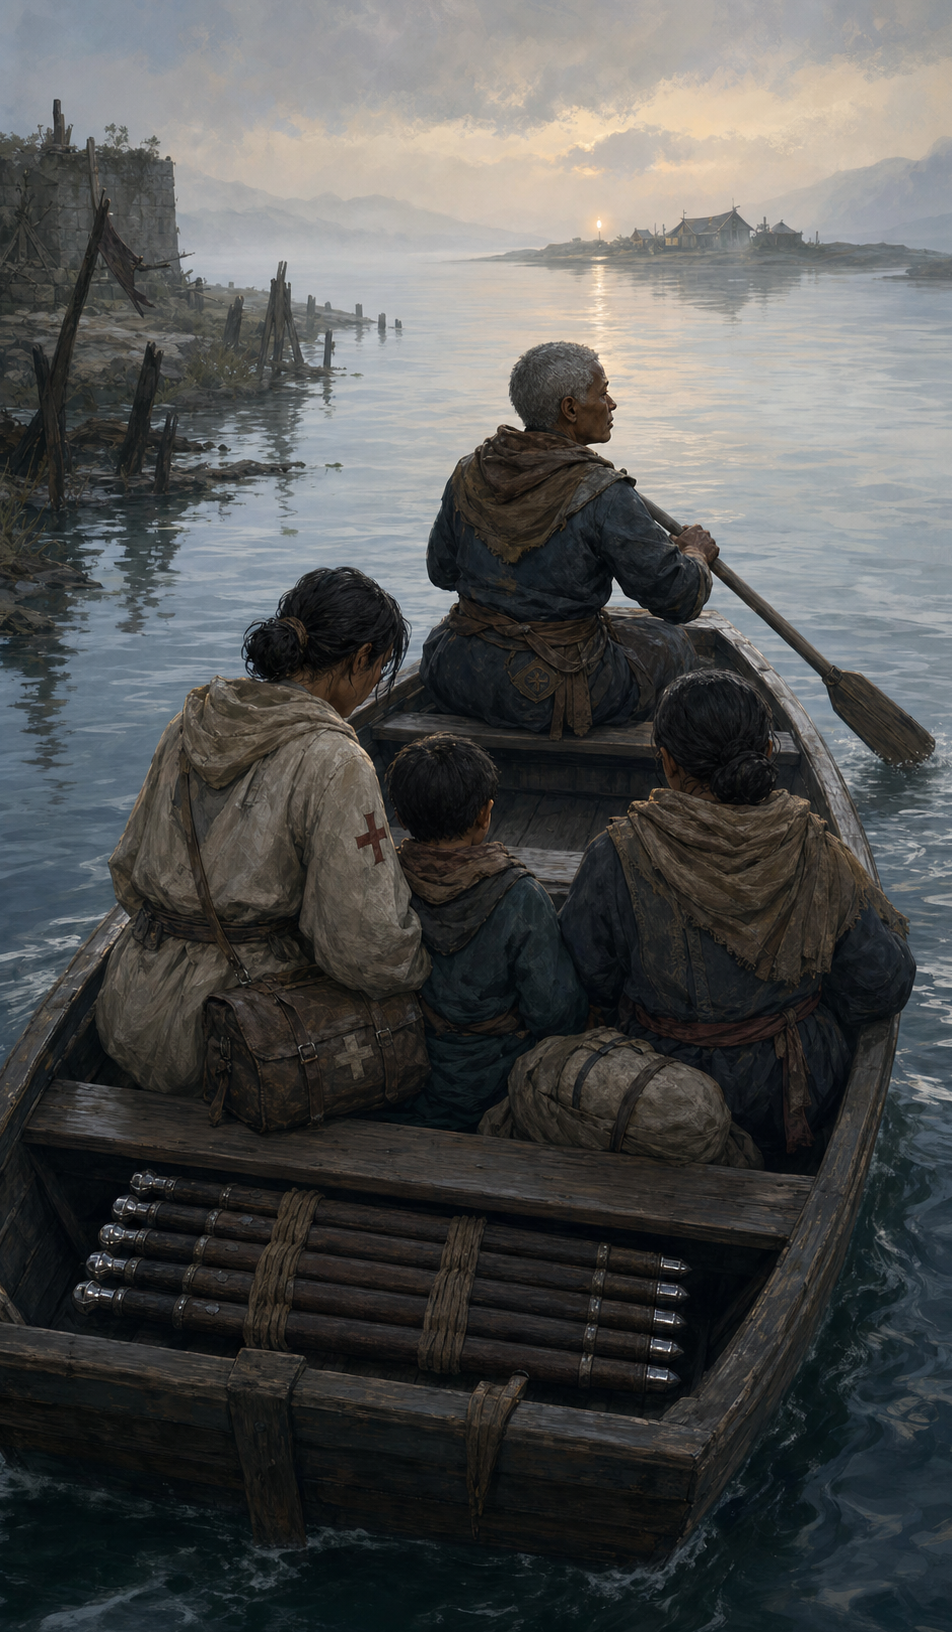
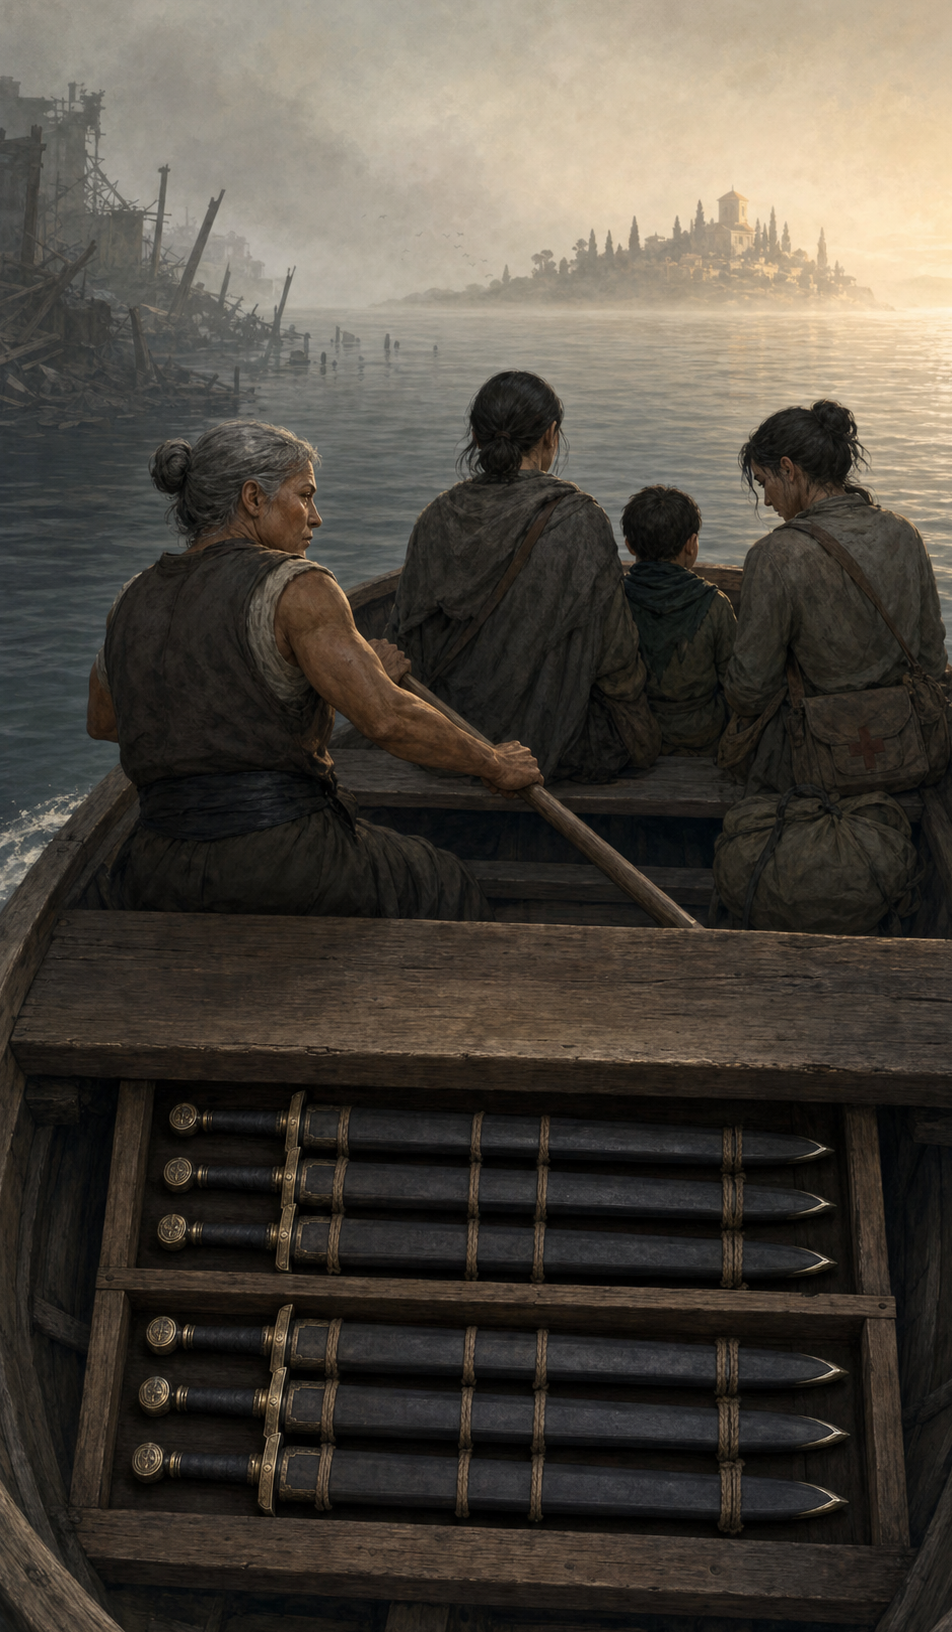
Correct the Pending A14 Six of Swords candidate with an independently generated, count-safe 2×3 sword bundle and update its provenance to acknowledge the original five-sword miscount.

diff --git a/resources/assets/tarot/artwork-packs/lupus-noctis/records/minor/swords/six.md b/resources/assets/tarot/artwork-packs/lupus-noctis/records/minor/swords/six.md
@@ -81,13 +81,43 @@ Direct Rider-Waite sword-filled boat copy, heroic refugee poster, dramatic cryin
 
 Exactly six swords; all sheathed; one horizontal bundle; no seventh blade; no belt weapon; no spear; no battle; no physical wolf; no embedded writing.
 
+## Targeted Correction Prompt
+
+```text
+TARGETED TEXT-ONLY REGENERATION. Do not use the previous image as a reference.
+
+Create the same quiet post-ceasefire ferry passage toward a neutral island, but rebuild the secured sword bundle with an unambiguous count-safe arrangement.
+
+Show exactly six fully sheathed swords total.
+
+Arrange the six swords as one secured bundle in exactly two clearly separated horizontal rows of three swords each:
+
+- upper row: exactly three complete sheathed swords;
+- lower row: exactly three complete sheathed swords.
+
+All six pommels must be individually visible at the left side.
+All six sheath tips must be individually visible at the right side.
+No sword may be hidden completely behind another.
+No row may merge visually into the other.
+Use visible wooden or rope separators so the 2×3 structure remains countable at Tarot-card size.
+
+The bundle remains secured under the forward bench of a small practical ferry.
+
+The ferrymaster is an older compact muscular woman using one short broad-bladed ordinary oar. The passengers remain one parent, one child, and one exhausted teacher or medic with cloth packs and one medical satchel. The ferry moves away from a damaged bank toward one restrained warm island light through pale morning mist.
+
+Do not include any other sword, sheath, knife, dagger, spear, belt weapon, decorative blade, weapon-shaped object, long pole, or sword-like oar.
+
+Contemporary painted narrative fantasy, exact 7:12 portrait intent, borderless inner Tarot illustration, natural anatomy and materials, quiet transition rather than battle.
+
+No text, letters, numbers, frame, title, watermark, signature, logo, pseudo-runes, physical wolf, spirit wolf, gore, battle, heroic refugee-poster staging, photorealism, 3D render, anime, or comic cel shading.
+```
+
 ## Final Candidate
 
 - Path: `studies/A14/six-of-swords.png`
 - Original generated dimensions: `957 × 1643 px`
 - Final dimensions: `952 × 1632 px` (exact `7:12`), produced by centered crop without stretching
[1 lines of base64/hex data omitted]
-- Generation count: **1** initial text-only generation; no correction used
-- Targeted correction prompt: none
-- Technical review: Exactly six distinct swords are fully enclosed in six sheaths, aligned as one countable horizontal bundle under the forward bench; no passenger wears or holds a weapon and no extra blade, sheath, dagger, spear, or weapon-like object appears. The older ferrymaster uses one unmistakable short broad-bladed oar while the parent, child, and exhausted medic sit low as the ferry moves from the damaged bank toward the distant island light, making quiet transition and accepted help readable without battle or theatrical farewell. Anatomy, hands, wet cloth, satchel, wood, rope, sheath leather, metal fittings, water, and mist remain distinct at card size with safe margins and no embedded text, pseudo-runes, accidental tattoos, repeated global texture, wolf, frame, watermark, signature, or logo. The generated source was decoded and center-cropped without stretching.
[1 lines of base64/hex data omitted]
+- Generation count: **2** text-only generations: one initial generation and one targeted correction; neither used an image reference
+- Technical review: The initial generation contained exactly five fully sheathed swords—five distinct pommels, five sheath bodies, and five sheath tips—even though the record and prior Codex summary incorrectly documented six. The owner identified the visual miscount during review. The single targeted independent regeneration replaces that candidate with an unambiguous `2 × 3` bundle: the upper row contains three complete sheathed swords and the lower row contains three complete sheathed swords. Direct enlarged inspection confirms six separate pommels on the left, six separate sheath bodies, six separate tips on the right, and zero additional blades or sheaths. Wooden separators and rope keep the rows distinct at card size. The older ferrymaster uses one ordinary oar while the parent, child, and exhausted medic travel toward the island through pale mist; anatomy, hands, cloth, satchel, wood, rope, sheath leather, fittings, water, and atmosphere remain readable with safe margins and no embedded text, pseudo-runes, accidental tattoos, repeated global texture, physical wolf, frame, watermark, signature, or logo. The generated `957 × 1643 px` source was decoded and center-cropped without stretching to `952 × 1632 px`.
 - Owner acceptance: **Pending**
